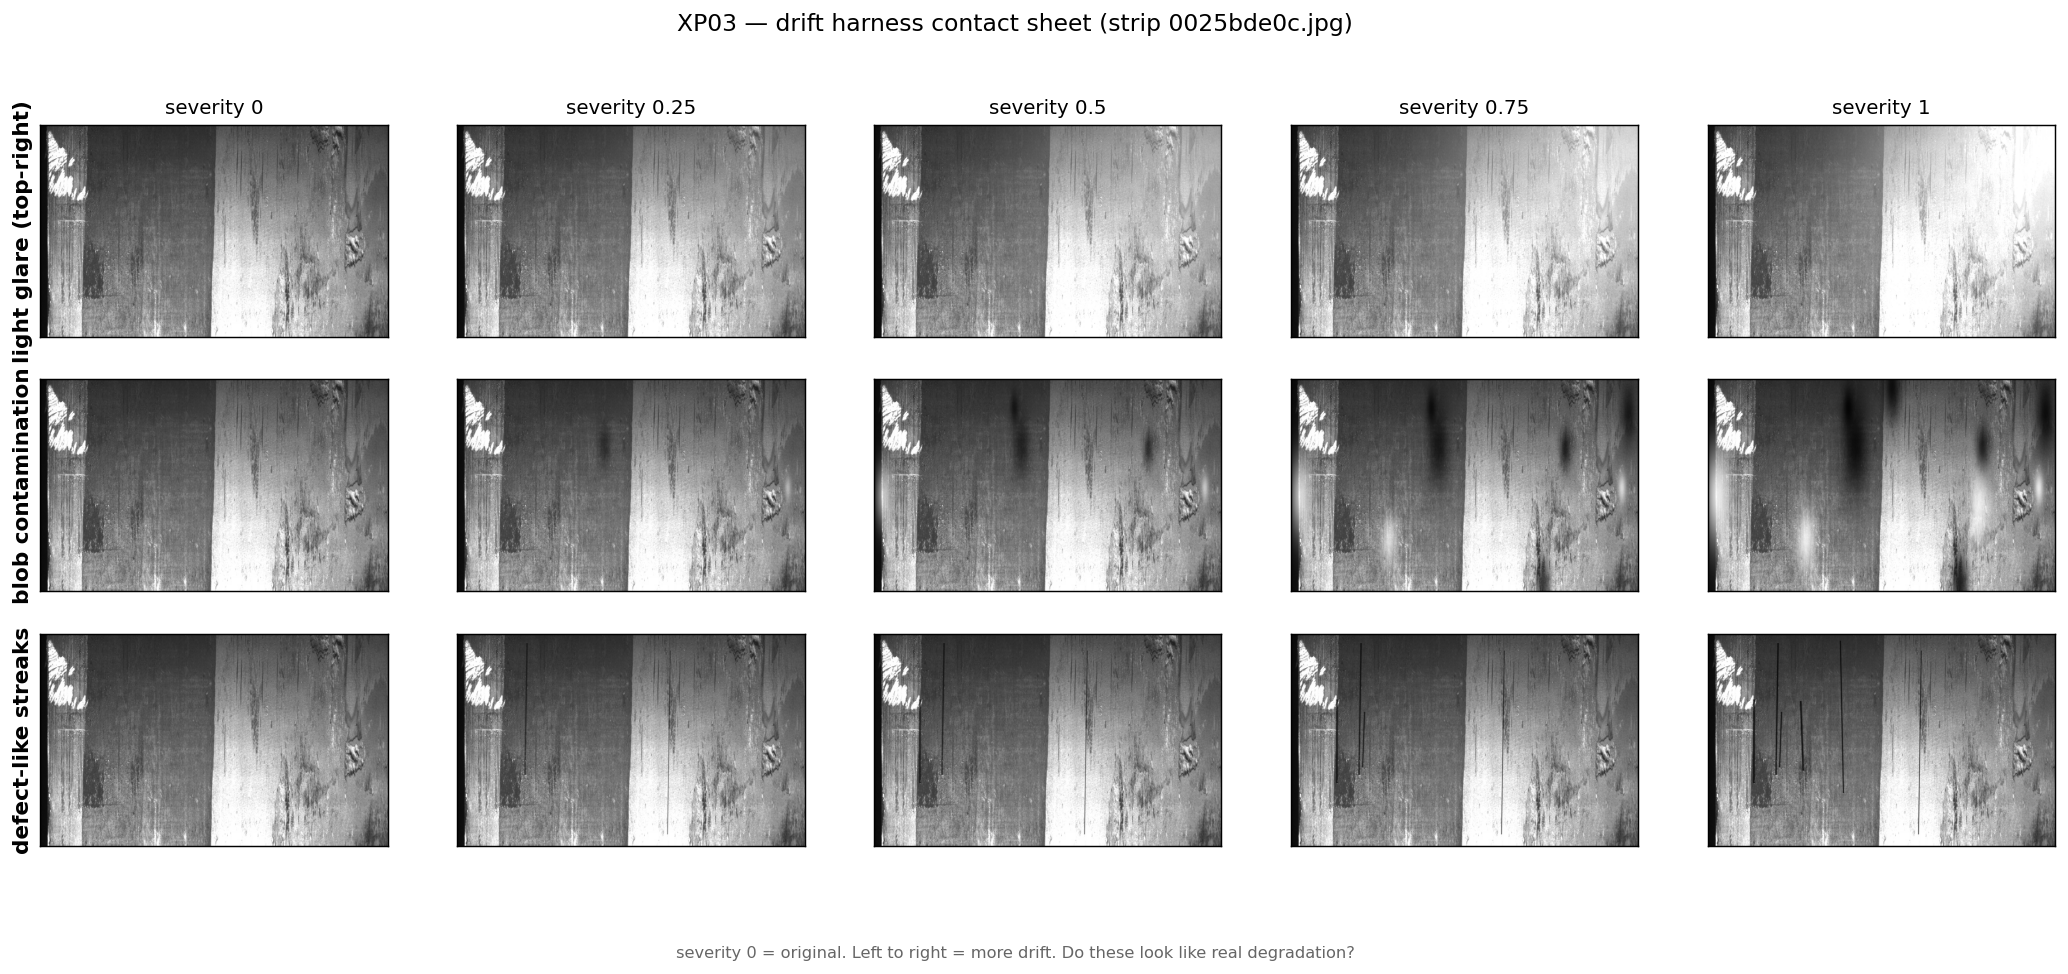
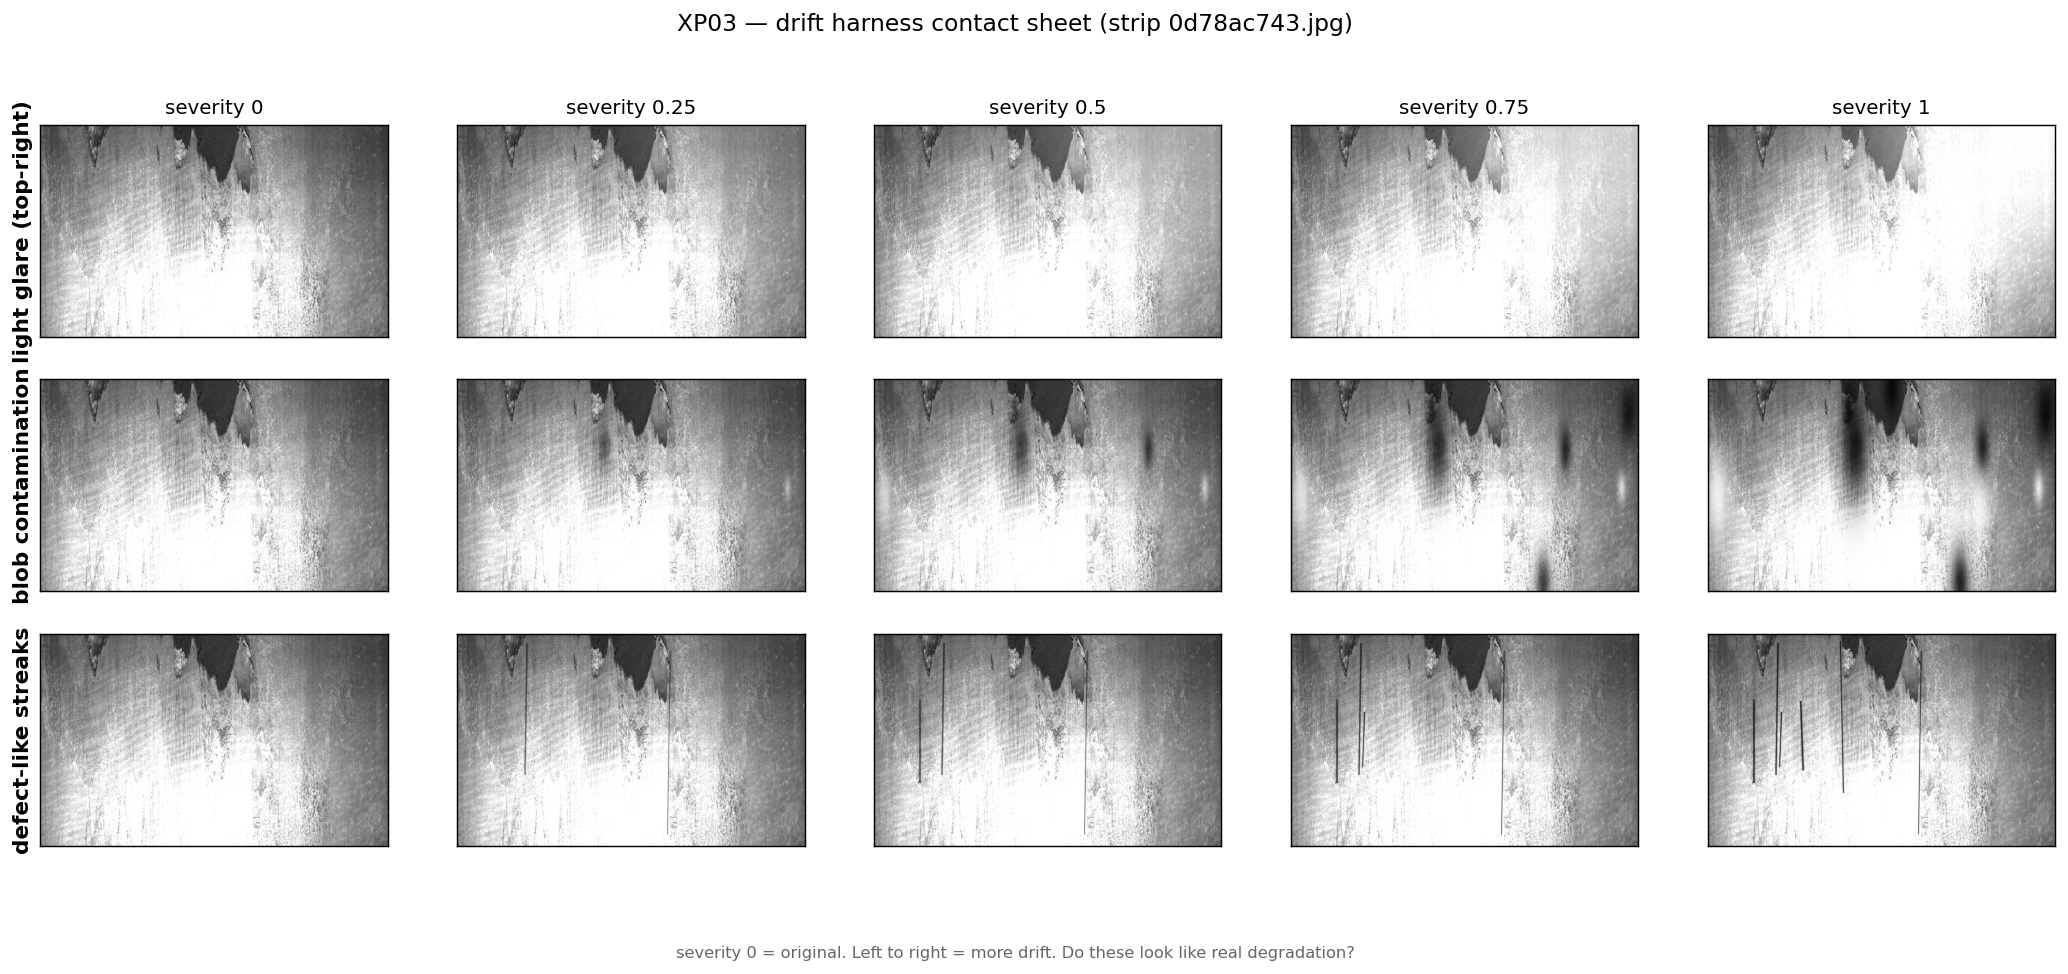
XP03: use a brighter, clearer strip for the drift contact sheet
Pick a bright class-4 strip (0d78ac743) with no dark border, so all three drifts
- especially the thin streaks - are clearly visible against the background.

diff --git a/experiments/xp03_drift/contact_sheet.py b/experiments/xp03_drift/contact_sheet.py
@@ -25,10 +25,14 @@ LABELS = {"light_corner": "light glare (top-right)", "marks": "blob contaminatio
           "streaks": "defect-like streaks"}
 
 
+PREFERRED = "0d78ac743.jpg"       # bright strip, visible class-4 defect, no dark border
+
+
 def main() -> int:
-    # a defective strip, so we can see the drift interact with a real defect
+    # a bright defective strip, so the drifts are clearly visible against a real defect
     index = load_index()
-    iid = next(i for i in sorted(load_split()["holdout"]) if index[i])
+    hold = load_split()["holdout"]
+    iid = PREFERRED if PREFERRED in hold else next(i for i in sorted(hold) if index[i])
     img = np.array(Image.open(os.path.join(TRAIN_IMG_DIR, iid)).convert("L"))
 
     kinds, sev = drift.KINDS, drift.SEVERITIES
